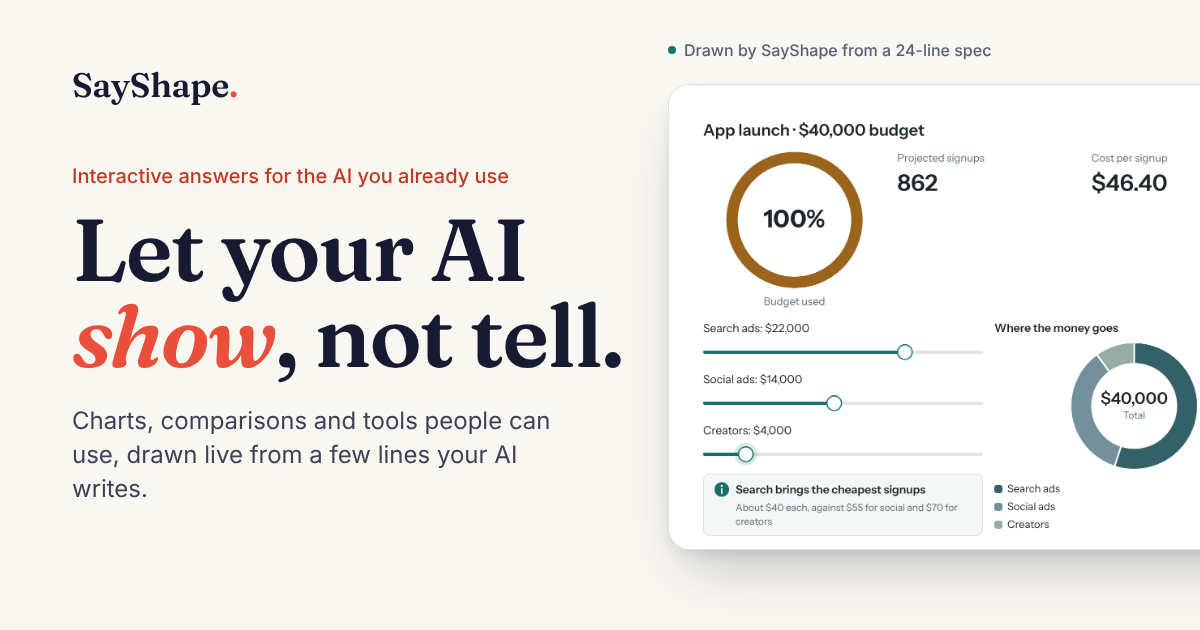
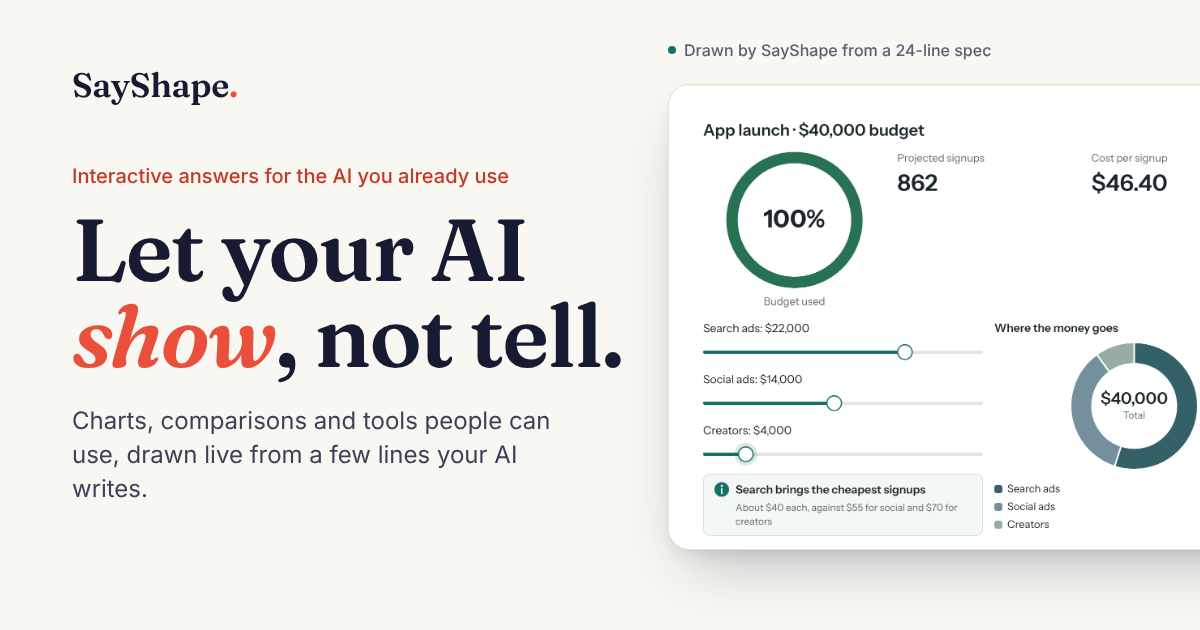
Site: each page's own og:url, and og.png's budget ring in the good colour
- og:url moves into transformHead and is each page's own address, built
  like the sitemap's: SITE_URL plus the page path, an index page as its
  folder and any other page as .html. The 404 page gets none: GitHub Pages
  serves it at whatever missing address was asked for, so it has no
  address of its own, and pointing it at the homepage would make a broken
  link preview as the homepage.
- og.png: regenerated with the steps that made it in 665740d (the built
  landing page at 1440 px and 2x once the hero replay finishes, cropped
  to the card, set beside the headline in a 1200x630 page). Run at
  665740d those steps give the shipped og.png pixel for pixel; run there
  with the hero's bands set to "1.005", as on main, they change only the
  ring, which is now drawn in the good colour like the live hero.

Claude-Session: https://claude.ai/code/session_014BDvZAdw4t9T9f4YD6sBtu

Changed region(s): [[0.6167, 0.2413, 0.74, 0.3921], [0.6167, 0.3921, 0.7092, 0.4825], [0.5858, 0.3016, 0.6167, 0.3921]]

diff --git a/site/.vitepress/config.ts b/site/.vitepress/config.ts
@@ -1,4 +1,4 @@
-import { defineConfig, type DefaultTheme } from "vitepress";
+import { defineConfig, type DefaultTheme, type HeadConfig } from "vitepress";
 import { fileURLToPath } from "node:url";
 import { readFileSync } from "node:fs";
 import { CATEGORIES } from "../../src/component";
@@ -14,6 +14,10 @@ const SITE_URL = `https://premmannava.github.io${BASE}`;
 const TITLE = "SayShape";
 const DESCRIPTION = "A UI language for AI models to write, and a canvas engine that renders it: parser, layout, painting, state and input of its own.";
 
+
+/** A page's own address, written the way the sitemap writes it: an index page as its folder, any other as .html. */
+const pageUrl = (relativePath: string) =>
+  SITE_URL + relativePath.replace(/(^|\/)index\.md$/, "$1").replace(/\.md$/, ".html");
 
 const cap = (s: string) => s[0]!.toUpperCase() + s.slice(1);
 
@@ -98,18 +102,20 @@ export default defineConfig({
     ["meta", { name: "theme-color", content: "#F9F7F2" }],
     ["meta", { property: "og:type", content: "website" }],
     ["meta", { property: "og:site_name", content: TITLE }],
-    // og:title and og:description are per page, from transformHead below.
-    ["meta", { property: "og:url", content: SITE_URL }],
+    // og:title, og:description and og:url are per page, from transformHead below.
     ["meta", { property: "og:image", content: `${SITE_URL}og.png` }],
     ["meta", { property: "og:image:width", content: "1200" }],
     ["meta", { property: "og:image:height", content: "630" }],
     ["meta", { name: "twitter:card", content: "summary_large_image" }],
   ],
-  // A shared link previews with the page's own title and description, the same ones its <title> and
-  // meta description use, so the landing page's preview reads "Let your AI show, not tell".
-  transformHead: ({ title, description }) => [
+  // A shared link previews with the page's own title, description and address, the same title and
+  // description its <title> and meta description use, so the landing page's preview reads "Let your
+  // AI show, not tell". The 404 page has no address of its own: GitHub Pages serves it at whatever
+  // missing address was asked for, so it gets no og:url rather than one that points somewhere else.
+  transformHead: ({ title, description, pageData }) => [
     ["meta", { property: "og:title", content: title }],
     ["meta", { property: "og:description", content: description || DESCRIPTION }],
+    ...(pageData.isNotFound ? [] : [["meta", { property: "og:url", content: pageUrl(pageData.relativePath) }] as HeadConfig]),
   ],
   themeConfig: {
     siteTitle: "SayShape",
